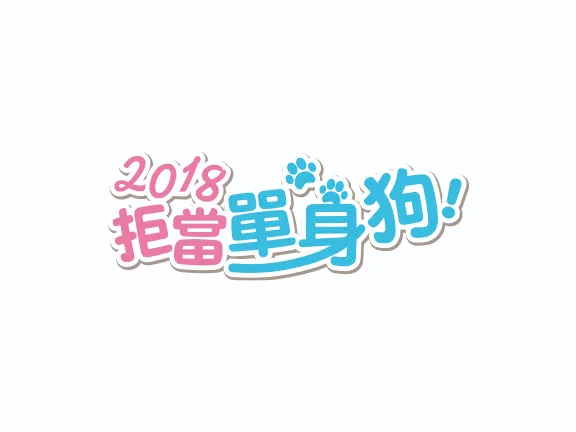
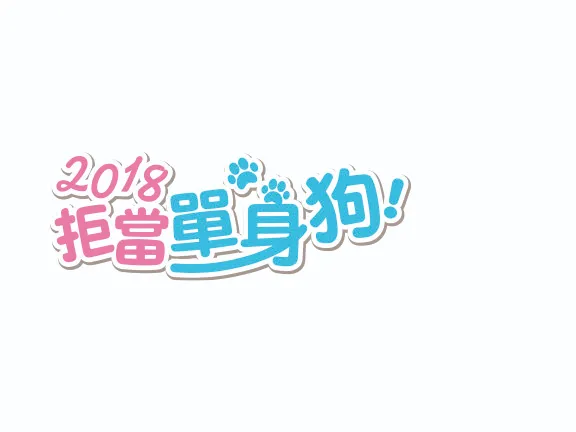
修改Hero圖片大小及作品排序

Changed region(s): [[0.0938, 0.3611, 0.8125, 0.662]]

diff --git a/portfolio-graphic.html b/portfolio-graphic.html
@@ -92,21 +92,21 @@
     <section class="content-section container">
       <div class="section-heading section-heading--center">
         <p class="eyebrow">Deliverables</p>
-        <h2>Visual applications</h2>
-        <p>從主視覺延伸至實體與數位媒體，維持完整的活動識別。</p>
-      </div>
-
-      <div class="gallery gallery--feature">
-        <figure class="media-card media-card--wide">
-          <img src="assets/img/graphic-design/02-campaign-board.webp" alt="檔期看板主視覺應用" loading="lazy">
-          <figcaption>
-            <strong>Campaign Key Visual</strong>
-            <span>檔期看板／主視覺應用</span>
-          </figcaption>
-        </figure>
+        <h2>Final Design Outputs</h2>
+        <p>本案完成的主視覺細節與不同版位設計稿。</p>
       </div>
 
       <div class="gallery gallery--two">
+        <!-- 1. 主標、角色與插畫細節 -->
+        <figure class="media-card media-card--detail">
+          <img src="assets/img/portfolio/graphic design/3-graphic design sloganjpg.webp" alt="活動主標與角色插畫細節" loading="lazy">
+          <figcaption>
+            <strong>Visual Detail</strong>
+            <span>主標、角色與插畫細節</span>
+          </figcaption>
+        </figure>
+
+        <!-- 2. 印刷輸出／門市張貼 -->
         <figure class="media-card">
           <img src="assets/img/portfolio/graphic design/3-graphic design poster.webp" alt="A3 直式活動海報" loading="lazy">
           <figcaption>
@@ -114,6 +114,19 @@
             <span>印刷輸出／門市張貼</span>
           </figcaption>
         </figure>
+      </div>
+
+      <div class="gallery gallery--two gallery--last">
+        <!-- 3. Website Banner -->
+        <figure class="media-card">
+          <img src="assets/img/portfolio/graphic design/3-graphic design kv banner.webp" alt="官網首頁橫幅設計" loading="lazy">
+          <figcaption>
+            <strong>Website Banner</strong>
+            <span>官網 Banner／首頁曝光</span>
+          </figcaption>
+        </figure>
+
+        <!-- 4. Facebook Banner -->
         <figure class="media-card">
           <img src="assets/img/portfolio/graphic design/3-graphic design fb banner.webp" alt="Facebook 橫幅設計與社群版位展示" loading="lazy">
           <figcaption>
@@ -123,22 +136,6 @@
         </figure>
       </div>
 
-      <div class="gallery gallery--two gallery--last">
-        <figure class="media-card">
-          <img src="assets/img/portfolio/graphic design/3-graphic design kv banner.webp" alt="官網首頁橫幅設計" loading="lazy">
-          <figcaption>
-            <strong>Website Banner</strong>
-            <span>官網 Banner／首頁曝光</span>
-          </figcaption>
-        </figure>
-        <figure class="media-card media-card--detail">
-          <img src="assets/img/portfolio/graphic design/3-graphic design sloganjpg.webp" alt="活動主標與角色插畫細節" loading="lazy">
-          <figcaption>
-            <strong>Visual Detail</strong>
-            <span>主標、角色與插畫細節</span>
-          </figcaption>
-        </figure>
-      </div>
     </section>
 
     <section class="content-section container detail-section">

diff --git a/assets/css/portfolio-detail.css b/assets/css/portfolio-detail.css
@@ -237,7 +237,8 @@ h2 {
 }
 
 .media-frame--hero img {
-  aspect-ratio: 16 / 8.5;
+  aspect-ratio: 16 / 8.5; /* 維持原本的寬扁比例 */
+  object-fit: contain;    /* 縮小圖片以完整塞進框內，不裁切 */
 }
 
 .media-frame:hover img,
